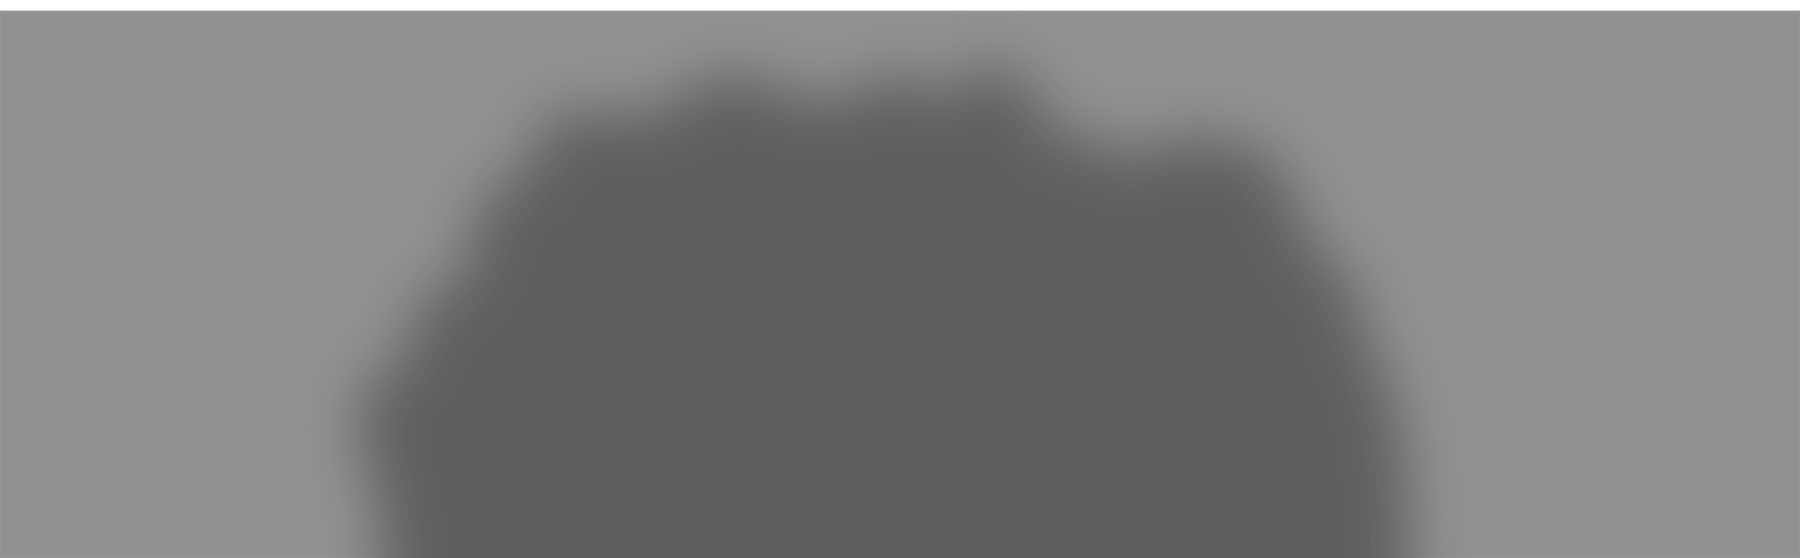
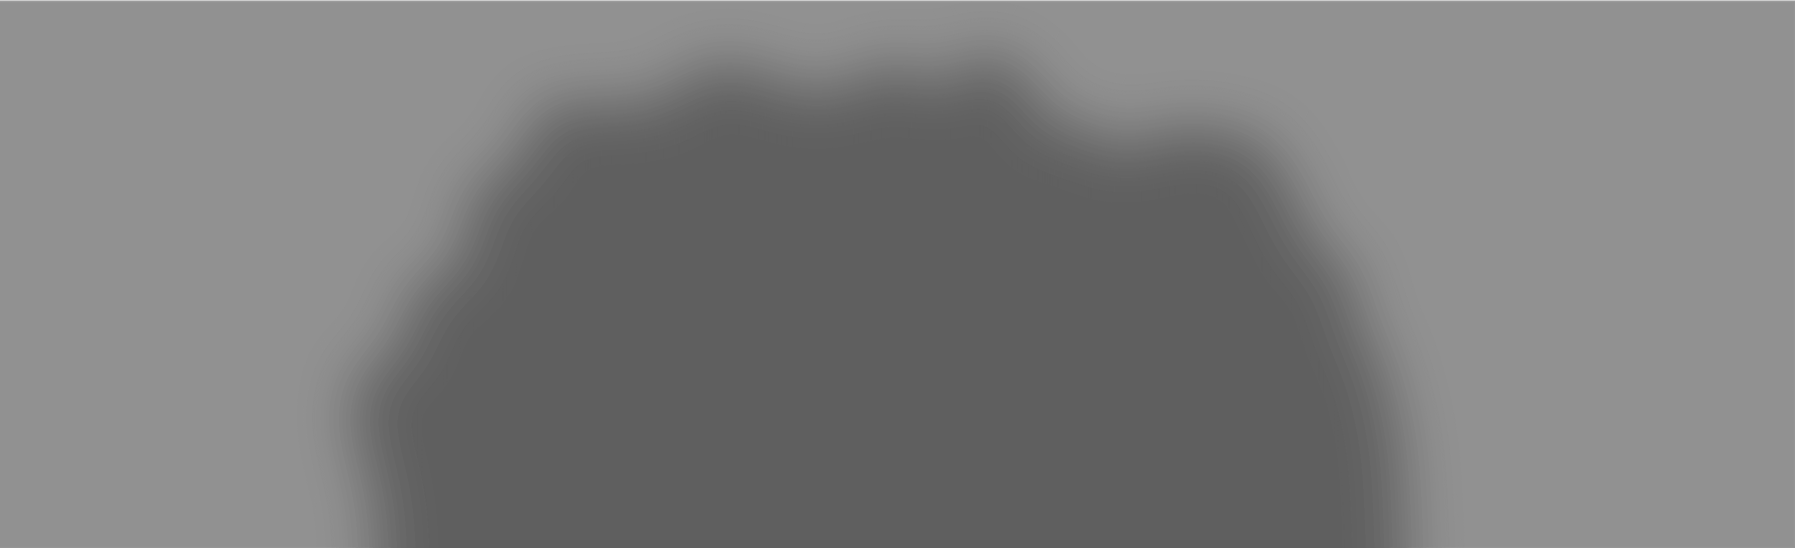
feat($style): Cropped the Support background image to remove gap

Changed region(s): [[0.0, 0.0, 1.0, 0.031]]

diff --git a/src/components/home/Support.jsx b/src/components/home/Support.jsx
@@ -30,32 +30,31 @@ const Middle = styled.div`
     position: absolute;
     top: 50%;
     left: 0;
-    border-top: 1px solid ${colors.WHITE};
+    border-top: 1px solid;
+    border-color: ${colors.WHITE};
     width: 100 %;
-    transform: translateY(-50 %);
+    transform: translateY(-50%);
   }
   display: flex;
+  color: ${colors.WHITE};
 `;
 
 
 const MainText = styled.div`
-color: ${colors.WHITE};
-font-size: 3em;
-font-weight: bold;
-max-height: 150px;
+  font-size: 3em;
+  font-weight: bold;
+  max-height: 150px;
 `;
 
 const SubText = styled.div`
-width: 100 %;
-color: ${colors.WHITE};
-font-size: 1.6em;
-padding-top: 1em;
-opacity: 0.7;
+  width: 100 %;
+  font-size: 1.6em;
+  padding-top: 1em;
+  opacity: 0.7;
 `;
 
 const NewContent = styled.div`
-color: white;
-font-size: 1.6em;
+  font-size: 1.6em;
 `
 
 

diff --git a/src/components/home/Landing.jsx b/src/components/home/Landing.jsx
@@ -78,7 +78,7 @@ transition: background-color 200ms ease, color 200ms ease;
 &:hover {
   background-color: white;
   color: ${colors.DARKBLUE};
-  border: 1px solid #009edb;
+  border: 1px solid ${colors.BLUE};
 }
 width: 60%;
 border-radius: 5px;
@@ -86,9 +86,9 @@ border-radius: 5px;
 
 const Contact = styled.button`
 background: transparent;
-color: white;
+color: ${colors.WHITE};
 padding: 1rem 2rem;
-border: 1px solid white;
+border: 1px solid ${colors.WHITE};
 transition: background-color 200ms ease, color 200ms ease;
 &:hover {
   background-color: white;  

diff --git a/src/components/Footer.jsx b/src/components/Footer.jsx
@@ -8,7 +8,7 @@ import colors from '../styles/colors';
 import { Section, Container } from './commons';
 
 const Background = styled.div`
-  background-color: ${colors.DARKBROWN};
+  background-color: ${colors.DARKBLUE};
   color: white;
   width: 100%;
   height: 60px;
